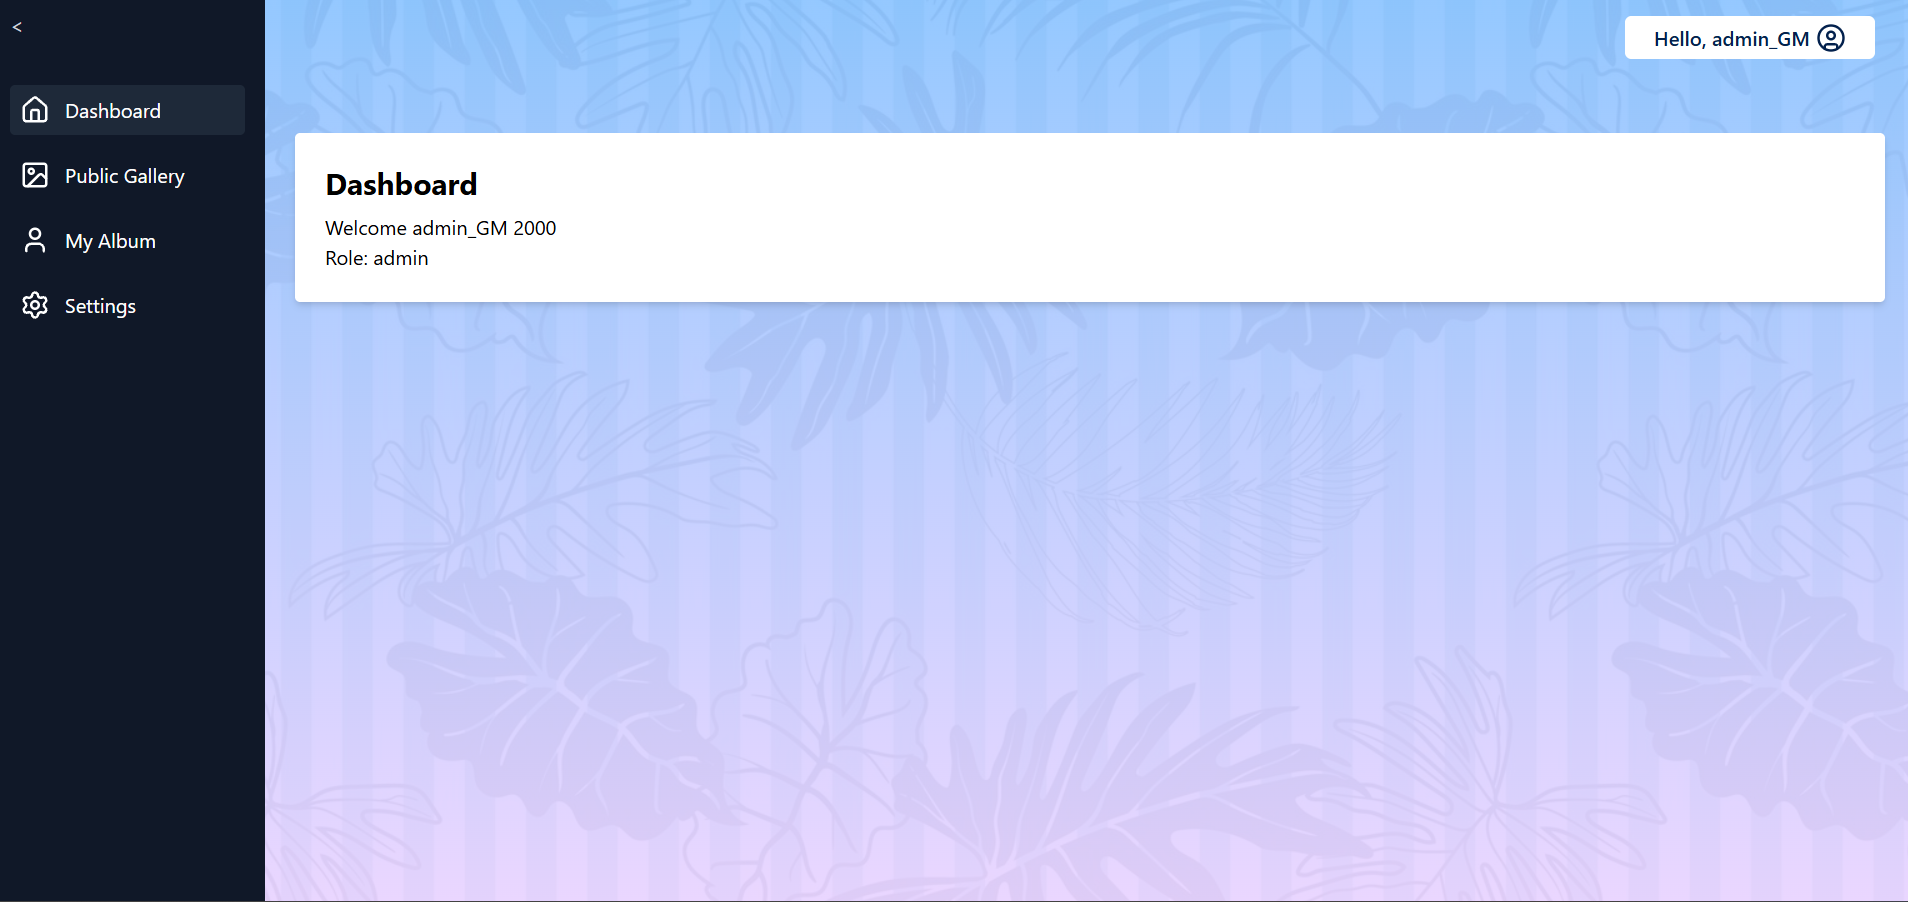
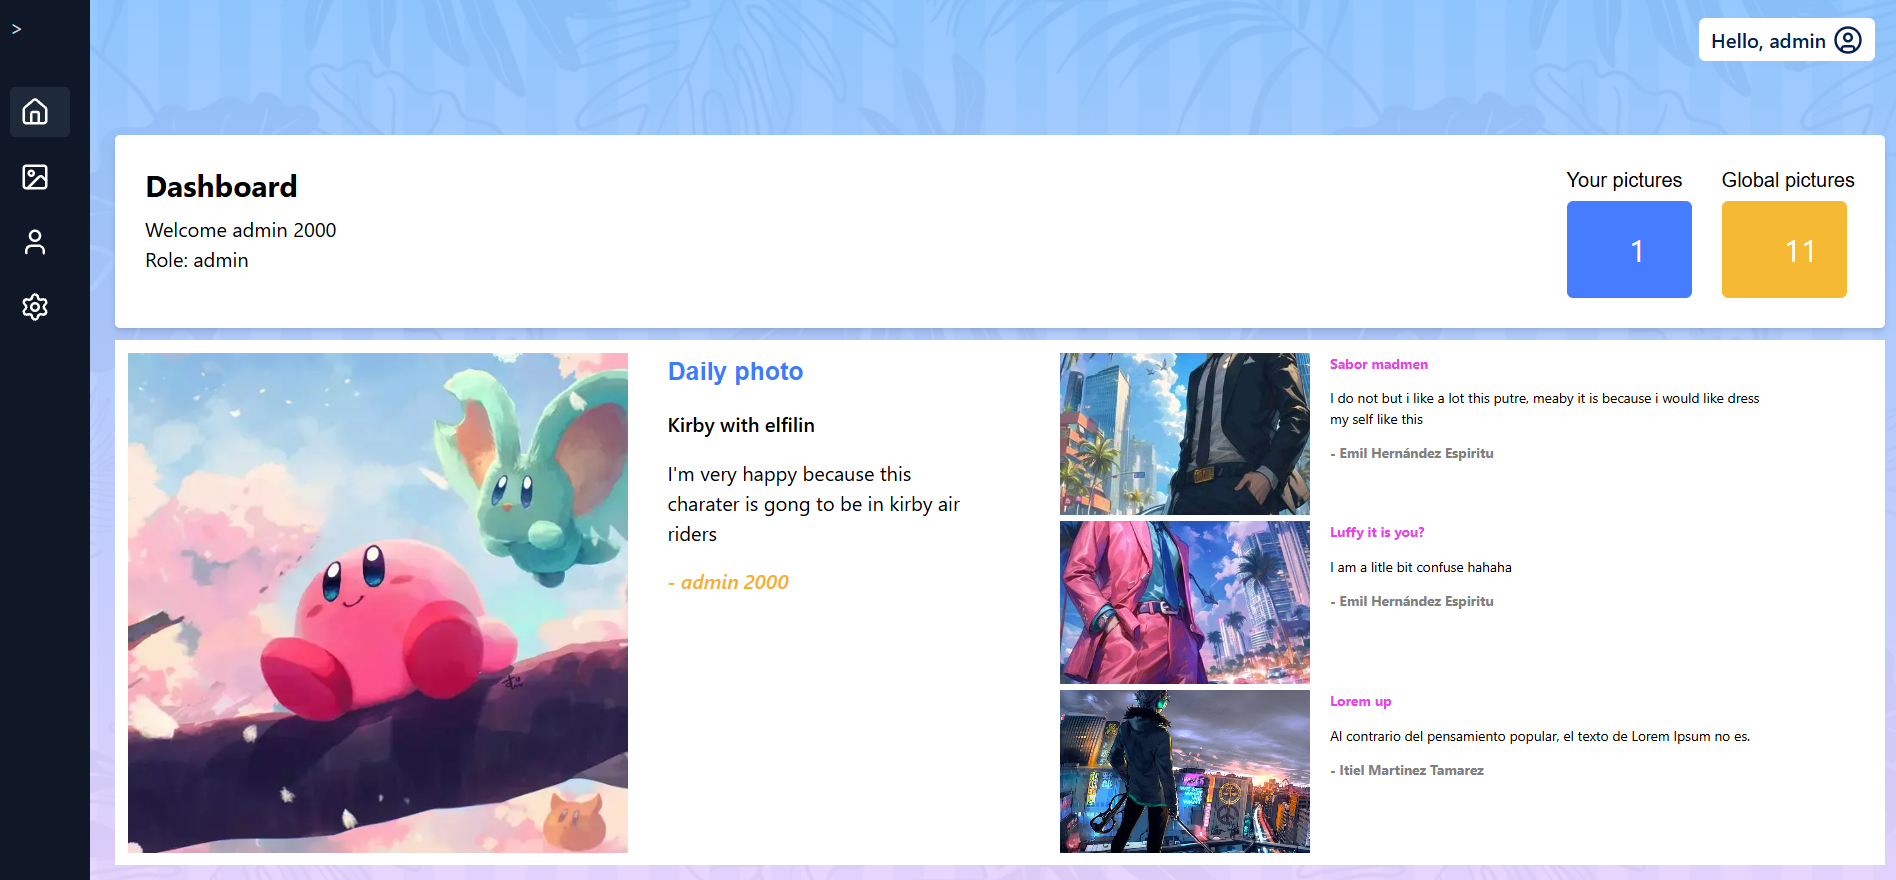
update-dashboard

diff --git a/frontend/src/pages/DashBoard.jsx b/frontend/src/pages/DashBoard.jsx
@@ -1,15 +1,133 @@
 
+import { useState } from "react";
 import { useAuth } from "../context/AuthContext";
+import { useEffect } from "react";
+import api from "../api/axios";
 
 const Dashboard = () => {
   const { user, logout } = useAuth();
 
+  const [photos, setPhotos] = useState([]);
+  const [randonPhoto, setRandonPhoto] = useState([])
+  const [myPhotos, setMyPhotos] = useState([])
+
+  useEffect(() => {
+    const fetchPhotos = async () => {
+      try {
+        const response = await api.get("/photos/public");
+        const res = await api.get('/photos/my-photos')
+        setPhotos(response.data);
+        setMyPhotos(res.data)
+        randonPictures(response.data, 4)
+      } catch (error) {
+        console.error("Error fetching public photos:", error);
+      }
+    };
+    fetchPhotos();
+  }, []);
+
+  const randonPictures = (arr, count = 2) => {
+    if (!arr || arr.length == 0) {
+      setRandonPhoto([])
+      return
+    }
+
+    const photoSet = new Set()
+
+    while (photoSet.size < count && photoSet.size < arr.length) {
+      const randon = Math.floor(Math.random() * arr.length)
+      photoSet.add(randon)
+    }
+
+    const selectedPhoto = Array.from(photoSet).map(i => arr[i])
+
+    setRandonPhoto(selectedPhoto)
+  }
+
+  console.log(randonPhoto)
+
   return (
-    <div className="mt-7 p-6 bg-white  rounded shadow-md">
-      <h1 className="text-2xl font-bold">Dashboard</h1>
-      <p className="mt-2">Welcome {user?.name}</p>
-      <p>Role: {user?.role}</p>
-  
+    <div>
+      <div className=" bigContainer mt-7 p-6 bg-white  rounded shadow-md">
+        <div>
+          <h1 className="text-2xl font-bold">Dashboard</h1>
+          <p className="mt-2">Welcome {user?.name}</p>
+          <p>Role: {user?.role}</p>
+        </div>
+
+       <div  className="stadisNumber">
+         <div className="usersPhotos--texts--numbers">
+          <h3>Your pictures</h3>
+          <p className="yourpictures">{myPhotos?.length}</p>
+        </div>
+        
+        <div className="usersPhotos--texts--numbers">
+          <h3>Global pictures</h3>
+          <p>{photos?.length}</p>
+        </div>
+       </div>
+
+      </div>
+
+      {randonPhoto &&
+        <div className="usersPhotos--container">
+
+          <div className="usersPhotos">
+            <div className="usersPhotos--img" >
+              <img src={randonPhoto[0]?.imageUrl} alt={randonPhoto[0]?.name} />
+            </div>
+
+            <div className="usersPhotos--texts">
+              <h3>Daily photo</h3>
+              <p>{randonPhoto[0]?.title}</p>
+              <p>{randonPhoto[0]?.comment}</p>
+              <p>- {randonPhoto[0]?.author}</p>
+            </div>
+          </div>
+
+          <div className="usersPhotos--container_litle">
+
+            <div className="usersPhotos_litle">
+              <div className="usersPhotos_litle-img" >
+                <img src={randonPhoto[1]?.imageUrl} alt={randonPhoto[0]?.name} />
+              </div>
+
+              <div className="usersPhotos--texts_little">
+                <p>{randonPhoto[1]?.title}</p>
+                <p>{randonPhoto[1]?.comment}</p>
+                <p>- {randonPhoto[1]?.author}</p>
+              </div>
+            </div>
+
+            <div className="usersPhotos_litle">
+              <div className="usersPhotos_litle-img" >
+                <img src={randonPhoto[2]?.imageUrl} alt={randonPhoto[0]?.name} />
+              </div>
+
+              <div className="usersPhotos--texts_little">
+                <p>{randonPhoto[2]?.title}</p>
+                <p>{randonPhoto[2]?.comment}</p>
+                <p>- {randonPhoto[2]?.author}</p>
+              </div>
+            </div>
+
+            <div className="usersPhotos_litle">
+              <div className="usersPhotos_litle-img" >
+                <img src={randonPhoto[3]?.imageUrl} alt={randonPhoto[0]?.name} />
+              </div>
+
+              <div className="usersPhotos--texts_little">
+                <p>{randonPhoto[3]?.title}</p>
+                <p>{randonPhoto[3]?.comment}</p>
+                <p>- {randonPhoto[3]?.author}</p>
+              </div>
+            </div>
+
+          </div>
+
+        </div>
+      }
+
     </div>
   );
 };

diff --git a/frontend/src/index.css b/frontend/src/index.css
@@ -213,3 +213,127 @@
 .alertUploaded_texts p {
   margin-top: 10px;
 }
+
+
+/* dashboard */
+
+.bigContainer {
+  display: flex;
+ justify-content: space-between;
+}
+
+.usersPhotos--container {
+  display: flex;
+  margin-top: 10px;
+  padding: 10px;
+  background-color: white;
+  gap: 4em ;
+}
+
+.usersPhotos {
+  display: flex;
+  gap: 2em;
+}
+
+.usersPhotos--texts {
+  display: flex;
+  flex-direction: column;
+  width: 250px;
+  gap: 15px;
+}
+
+
+.usersPhotos--texts h3 {
+  color: rgb(60, 125, 255);
+  font-size: 20px;
+  font-weight: 700;
+  font-family: Arial, Helvetica, sans-serif;
+}
+
+.usersPhotos--texts :nth-child(2) {
+font-weight: 600;
+}
+
+.usersPhotos--texts :nth-child(4) {
+  font-weight: 600;
+  color: rgb(248, 176, 41);
+  font-style: italic;
+}
+
+.usersPhotos--img img {
+
+  width: 400px;
+  height: 400px;
+  object-fit: cover;
+
+}
+
+.usersPhotos :nth-child(3) {
+  display: flex;
+  flex-direction: column;
+  gap: 10px;
+}
+
+.usersPhotos--texts--numbers :nth-child(1) {
+font-size: 16px;
+font-family: Arial, Helvetica, sans-serif;
+}
+
+.stadisNumber {
+  display: flex;
+  gap: 1.5em;
+}
+
+.usersPhotos--texts--numbers :nth-child(2) {
+  margin-top: 5px;
+  background-color: rgba(244, 169, 7, 0.818);
+  width: 10px;
+  padding: 20px 50px;
+  color: white;
+  font-size: 25px;
+  border-radius: 5px;
+  text-align: center;
+}
+
+.usersPhotos--texts--numbers .yourpictures {
+  background-color: rgba(47, 109, 255, 0.892);
+}
+
+
+
+/* userphotos little */
+
+.usersPhotos--container_litle {
+  display: flex;
+  flex-direction: column;
+  gap: 5px;
+}
+
+.usersPhotos_litle {
+  display: flex;
+  gap: 1em;
+}
+
+.usersPhotos_litle-img img {
+  width: 200px;
+  height: 130px;
+  object-fit: cover;
+  background-size: cover;
+}
+
+.usersPhotos--texts_little {
+  display: flex;
+  flex-direction: column;
+  gap: 1em;
+  width: 350px;
+  font-size: 11px;
+}
+
+.usersPhotos--texts_little :nth-child(1){
+  color: rgb(236, 64, 236);
+  font-weight: 700;
+}
+.usersPhotos--texts_little :nth-child(3){
+  font-weight: 700;
+  color: rgb(128, 128, 128);
+}
